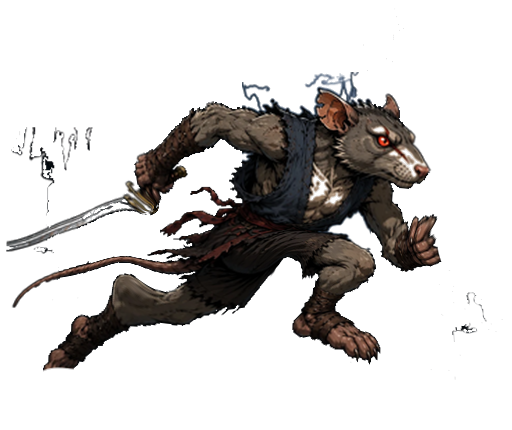
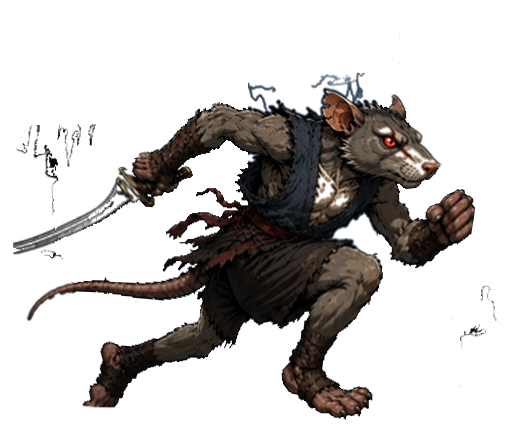
Make legs genuinely swap sides and double the frame count
Each leg now takes turns being the long forward-reaching one instead
of always the same leg crossing in front, so the stride reads as a
real alternating gait. Also doubled the running cycle from 10 to 20
frames per character for a noticeably smoother transition.

Changed region(s): [[0.0, 0.1512, 0.9375, 0.9674], [0.875, 0.6349, 0.9688, 0.786]]

diff --git a/public/index.html b/public/index.html
@@ -242,7 +242,7 @@ addChar(Object.assign({
   fur:'#2b2438', furDark:'#1a1624', belly:'#4a4460', eye:'#7bd389',
   blurb:'Silent hunter · deadly claws',
   sprite:{body:'img/shade_body.png', weapon:'img/shade_weapon.png', pivot:[205,222], weaponPivot:[32,32],
-    runFrames:{files:['img/shade_run_f0.png','img/shade_run_f1.png','img/shade_run_f2.png','img/shade_run_f3.png','img/shade_run_f4.png','img/shade_run_f5.png','img/shade_run_f6.png','img/shade_run_f7.png','img/shade_run_f8.png','img/shade_run_f9.png'], groundYs:[465,474,478,478,474,465,462,460,460,462], w:444, h:484},
+    runFrames:{files:['img/shade_run_f0.png','img/shade_run_f1.png','img/shade_run_f2.png','img/shade_run_f3.png','img/shade_run_f4.png','img/shade_run_f5.png','img/shade_run_f6.png','img/shade_run_f7.png','img/shade_run_f8.png','img/shade_run_f9.png','img/shade_run_f10.png','img/shade_run_f11.png','img/shade_run_f12.png','img/shade_run_f13.png','img/shade_run_f14.png','img/shade_run_f15.png','img/shade_run_f16.png','img/shade_run_f17.png','img/shade_run_f18.png','img/shade_run_f19.png'], groundYs:[465,472,477,481,484,484,484,481,477,472,465,464,463,462,462,462,462,462,463,464], w:458, h:491},
     stand:{file:'img/shade_stand.png', groundY:597, w:346, h:600}}
 }, makeAttacks('War Claws')));
 
@@ -252,7 +252,7 @@ addChar(Object.assign({
   fur:'#8a7a5c', furDark:'#5c4f38', belly:'#c7b98f', eye:'#ff2e2e',
   blurb:'Scarred and vicious · never backs down',
   sprite:{body:'img/gnash_body.png', weapon:'img/gnash_weapon.png', pivot:[68,128], weaponPivot:[32,32],
-    runFrames:{files:['img/gnash_run_f0.png','img/gnash_run_f1.png','img/gnash_run_f2.png','img/gnash_run_f3.png','img/gnash_run_f4.png','img/gnash_run_f5.png','img/gnash_run_f6.png','img/gnash_run_f7.png','img/gnash_run_f8.png','img/gnash_run_f9.png'], groundYs:[390,408,422,422,408,390,379,370,370,379], w:512, h:430},
+    runFrames:{files:['img/gnash_run_f0.png','img/gnash_run_f1.png','img/gnash_run_f2.png','img/gnash_run_f3.png','img/gnash_run_f4.png','img/gnash_run_f5.png','img/gnash_run_f6.png','img/gnash_run_f7.png','img/gnash_run_f8.png','img/gnash_run_f9.png','img/gnash_run_f10.png','img/gnash_run_f11.png','img/gnash_run_f12.png','img/gnash_run_f13.png','img/gnash_run_f14.png','img/gnash_run_f15.png','img/gnash_run_f16.png','img/gnash_run_f17.png','img/gnash_run_f18.png','img/gnash_run_f19.png'], groundYs:[391,406,419,428,433,434,433,428,419,406,391,383,374,367,364,363,364,367,374,383], w:518, h:443},
     stand:{file:'img/gnash_stand.png', groundY:597, w:374, h:600}}
 }, makeAttacks('Katana')));
 
@@ -262,7 +262,7 @@ addChar(Object.assign({
   fur:'#b9863f', furDark:'#7d5c2a', belly:'#e6d3a0', eye:'#ffa726',
   blurb:'Moonlit raider · unbreakable guard',
   sprite:{body:'img/howler_body.png', weapon:'img/howler_weapon.png', pivot:[112,158], weaponPivot:[104,87],
-    runFrames:{files:['img/howler_run_f0.png','img/howler_run_f1.png','img/howler_run_f2.png','img/howler_run_f3.png','img/howler_run_f4.png','img/howler_run_f5.png','img/howler_run_f6.png','img/howler_run_f7.png','img/howler_run_f8.png','img/howler_run_f9.png'], groundYs:[449,471,484,484,471,449,442,439,439,442], w:455, h:490},
+    runFrames:{files:['img/howler_run_f0.png','img/howler_run_f1.png','img/howler_run_f2.png','img/howler_run_f3.png','img/howler_run_f4.png','img/howler_run_f5.png','img/howler_run_f6.png','img/howler_run_f7.png','img/howler_run_f8.png','img/howler_run_f9.png','img/howler_run_f10.png','img/howler_run_f11.png','img/howler_run_f12.png','img/howler_run_f13.png','img/howler_run_f14.png','img/howler_run_f15.png','img/howler_run_f16.png','img/howler_run_f17.png','img/howler_run_f18.png','img/howler_run_f19.png'], groundYs:[450,466,478,486,490,492,490,486,478,466,450,446,441,441,442,442,442,441,441,446], w:460, h:498},
     stand:{file:'img/howler_stand.png', groundY:597, w:381, h:600}}
 }, makeAttacks('Sword & Shield')));
 
@@ -306,7 +306,7 @@ function runFrameIndex(char, animT){
   const rf = char.sprite && char.sprite.runFrames;
   if(!rf) return 0;
   const N = rf.files.length;
-  const framesPerPose = 5;
+  const framesPerPose = 3;
   return Math.floor((animT||0)/framesPerPose) % N;
 }
 function hasRunSprite(char){
@@ -827,7 +827,7 @@ function updateFighter(f, fList){
 
   if(f.state==='walk' && f.onGround && hasRunSprite(f.char)){
     const runIdx = runFrameIndex(f.char, f.animT);
-    if(runIdx===2 && f.lastRunIdx!==2) spawnHit(f.x, GROUND_Y-1, '#9c8f74', 4);
+    if(runIdx===5 && f.lastRunIdx!==5) spawnHit(f.x, GROUND_Y-1, '#9c8f74', 4);
     f.lastRunIdx = runIdx;
   }
 
